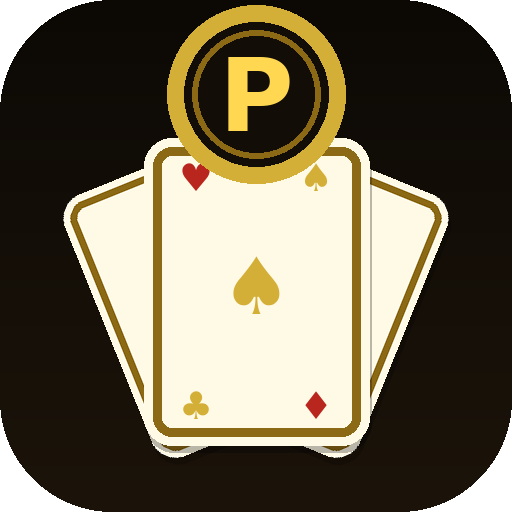
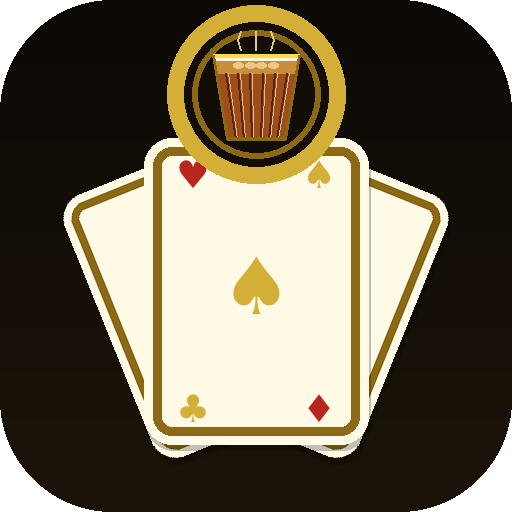
Add files via upload

diff --git a/index.html b/index.html
@@ -379,8 +379,34 @@
   <circle cx="40" cy="16" r="10.5" fill="#120e05"/>
   <!-- P badge inner ring -->
   <circle cx="40" cy="16" r="9" fill="none" stroke="#7a5c10" stroke-width="0.8"/>
-  <!-- P letter -->
-  <text x="40" y="16" font-family="DejaVu Sans, Arial, sans-serif" font-weight="bold" font-size="12" fill="#f0c060" text-anchor="middle" dominant-baseline="middle">P</text>
+  <!-- Kattan chaya glass: trapezoid wider at top, ribbed, frothy -->
+  <!-- glass body amber fill -->
+  <path d="M31 8 L49 8 L47 26 L33 26 Z" fill="#9e4e16"/>
+  <!-- froth top band -->
+  <path d="M31 8 L49 8 L48 13 L32 13 Z" fill="#c88a3a"/>
+  <!-- froth bubbles -->
+  <ellipse cx="35" cy="10" rx="1.8" ry="1.1" fill="#e0b050" opacity="0.8"/>
+  <ellipse cx="40" cy="9.5" rx="2.2" ry="1.3" fill="#e0b050" opacity="0.75"/>
+  <ellipse cx="45" cy="10" rx="1.8" ry="1.1" fill="#e0b050" opacity="0.8"/>
+  <!-- rim strip at top -->
+  <path d="M31 8 L49 8 L49 9.5 L31 9.5 Z" fill="#f0d070" opacity="0.5"/>
+  <!-- vertical ribs 6 dark grooves, tapered -->
+  <line x1="33.5" y1="13" x2="33" y2="26" stroke="#4a1a04" stroke-width="1.3"/>
+  <line x1="36.5" y1="13" x2="36" y2="26" stroke="#4a1a04" stroke-width="1.3"/>
+  <line x1="39.5" y1="13" x2="40" y2="26" stroke="#4a1a04" stroke-width="1.3"/>
+  <line x1="42.5" y1="13" x2="44" y2="26" stroke="#4a1a04" stroke-width="1.3"/>
+  <line x1="45.5" y1="13" x2="47" y2="26" stroke="#4a1a04" stroke-width="1.3"/>
+  <!-- rib highlights -->
+  <line x1="35"   y1="13" x2="34.5" y2="26" stroke="#c07030" stroke-width="0.6" opacity="0.5"/>
+  <line x1="38"   y1="13" x2="38"   y2="26" stroke="#c07030" stroke-width="0.6" opacity="0.5"/>
+  <line x1="41"   y1="13" x2="42"   y2="26" stroke="#c07030" stroke-width="0.6" opacity="0.5"/>
+  <line x1="44"   y1="13" x2="45.5" y2="26" stroke="#c07030" stroke-width="0.6" opacity="0.5"/>
+  <!-- glass outline -->
+  <path d="M31 8 L49 8 L47 26 L33 26 Z" fill="none" stroke="#f0c060" stroke-width="1.1" stroke-linejoin="round"/>
+  <!-- steam wisps -->
+  <path d="M35 6 Q33.5 3.5 35 1"  fill="none" stroke="#f0c060" stroke-width="0.9" stroke-linecap="round"/>
+  <path d="M40 5 Q38.5 2.5 40 0"  fill="none" stroke="#f0c060" stroke-width="0.9" stroke-linecap="round"/>
+  <path d="M45 6 Q43.5 3.5 45 1"  fill="none" stroke="#f0c060" stroke-width="0.9" stroke-linecap="round"/>
 </svg>
       <h1 class="app-title">കട്ടനും റമ്മിയും</h1>
       <p class="app-subtitle">Kattanum Rummiyum</p>
